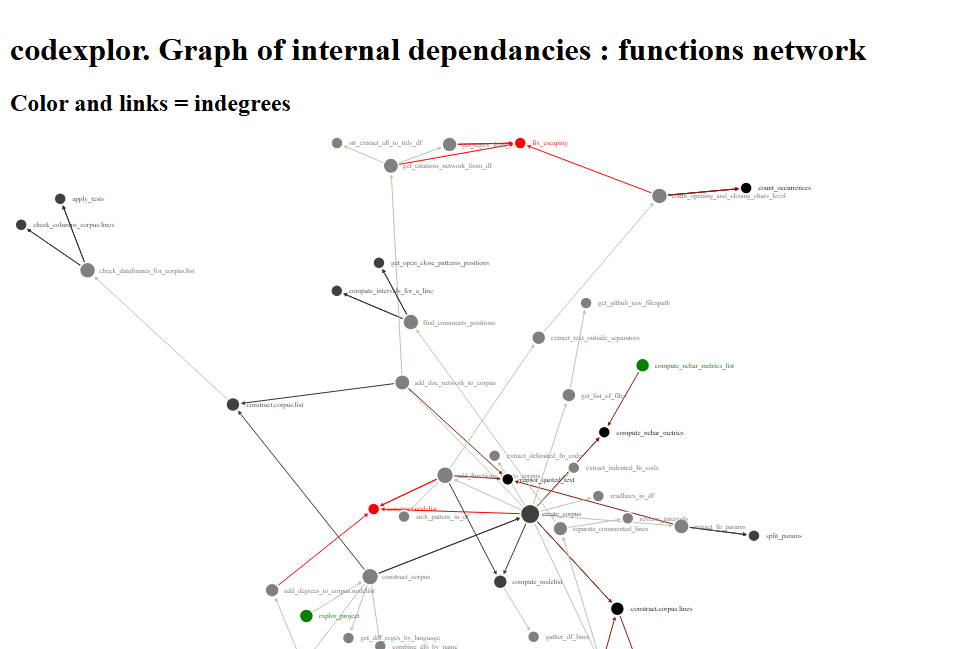
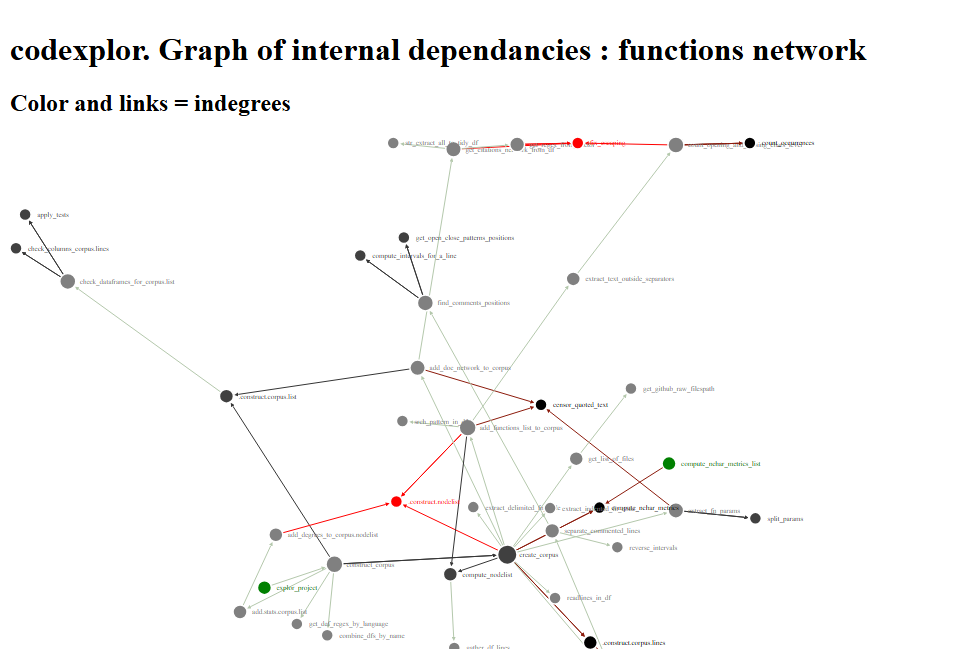
fix filter of fn

diff --git a/man/figures/network_codexplor_fn.html b/man/figures/network_codexplor_fn.html
@@ -1231,11 +1231,11 @@ return function(){for(var n=0,e=0;e<t;++e)n+=Math.random();return n}},um=functio
 <div id="htmlwidget_container">
   <h1>codexplor. Graph of internal dependancies : functions network</h1>
   <h2>Color and links = indegrees</h2>
-  <div class="forceNetwork html-widget html-fill-item" id="htmlwidget-1b7d24e1c1f14304c824" style="width:960px;height:500px;"></div>
+  <div class="forceNetwork html-widget html-fill-item" id="htmlwidget-14e8b6230c7ce6ca3b75" style="width:960px;height:500px;"></div>
   <div style="position:floating; top:10px; left:10px; background:white; padding:10px; border:0px;">
   <strong>Colors (indegree)</strong><br></div>
 </div>
-<script type="application/json" data-for="htmlwidget-1b7d24e1c1f14304c824">{"x":{"links":{"source":[1,0,0,2,3,5,4,4,0,3,6,0,0,7,7,4,8,2,7,7,9,0,3,10,10,0,11,0,0,4,12,13,13,13,14,3,3,0,0,0,4,15,1,1,16,17,13,18,18,19,2,3,20,21,0,10,10,17,0,1,16,1,8,8,4,17],"target":[15,15,15,9,9,22,22,22,22,6,5,2,4,23,23,24,24,24,25,25,7,1,26,27,27,28,28,28,19,19,3,29,29,29,13,0,0,30,8,31,14,32,32,32,10,33,33,33,33,34,17,35,36,37,20,38,38,18,39,40,41,16,42,42,43,44],"colour":["#8C1B0C","#8C1B0C","#8C1B0C","#353535","#353535","#FF0000","#FF0000","#FF0000","#FF0000","#B4C8AC","#B4C8AC","#B4C8AC","#B4C8AC","#353535","#353535","#8C1B0C","#8C1B0C","#8C1B0C","#353535","#353535","#B4C8AC","#B4C8AC","#B4C8AC","#353535","#353535","#8C1B0C","#8C1B0C","#8C1B0C","#353535","#353535","#B4C8AC","#8C1B0C","#8C1B0C","#8C1B0C","#B4C8AC","#353535","#353535","#B4C8AC","#B4C8AC","#B4C8AC","#B4C8AC","#8C1B0C","#8C1B0C","#8C1B0C","#B4C8AC","#FF0000","#FF0000","#FF0000","#FF0000","#B4C8AC","#B4C8AC","#B4C8AC","#B4C8AC","#B4C8AC","#B4C8AC","#353535","#353535","#B4C8AC","#B4C8AC","#B4C8AC","#B4C8AC","#B4C8AC","#353535","#353535","#B4C8AC","#B4C8AC"]},"nodes":{"name":["create_corpus","clean_comments_from_lines","add_doc_network_to_corpus","construct_corpus","add_functions_list_to_corpus","add_degrees_to_corpus.nodelist","add.stats.corpus.list","check_dataframes_for_corpus.list","extract_fn_params",".construct.corpus.list","find_comments_positions","compute_nchar_metrics_list","explor_project","count_opening_and_closing_chars_level","extract_text_outside_separators",".construct.corpus.lines","separate_commented_lines","get_citations_network_from_df","get_regex_from_vector","compute_nodelist","get_list_of_files","get_networkd3_from_igraph",".construct.nodelist","apply_tests","censor_quoted_text","check_columns_corpus.lines","combine_dfs_by_name","compute_intervals_for_a_line","compute_nchar_metrics","count_occurrences","extract_delimited_fn_code","extract_indented_fn_code","filter_if_na","fix_escaping","gather_df_lines","get_def_regex_by_language","get_github_raw_filespath","get_igraph_from_df","get_open_close_patterns_positions","readlines_in_df","remove_text_after_char","reverse_intervals","split_params","srch_pattern_in_df","str_extract_all_to_tidy_df"],"group":[2,1,1,1,1,1,1,1,1,2,1,0,0,1,1,3,1,1,1,2,1,0,4,2,3,2,1,2,3,3,1,1,3,4,1,1,1,1,2,1,1,1,2,1,1],"nodesize":[14,5,3,6,6,1,1,4,3,1,4,1,1,4,1,1,2,3,2,1,1,1,0,0,0,0,0,0,0,0,0,0,0,0,0,0,0,0,0,0,0,0,0,0,0]},"options":{"NodeID":"name","Group":"indegree","colourScale":"d3.scaleLinear().domain([0, 1, 3, 4]).range([\"green\", \"grey\", \"black\", \"red\"]).clamp(true);","fontSize":7,"fontFamily":"serif","clickTextSize":17.5,"linkDistance":50,"linkWidth":"function(d) { return 1; }","charge":-200,"opacity":1,"zoom":true,"legend":false,"arrows":true,"nodesize":true,"radiusCalculation":" Math.sqrt(d.nodesize)+6","bounded":true,"opacityNoHover":0.9,"clickAction":null}},"evals":[],"jsHooks":[]}</script>
-<script type="application/htmlwidget-sizing" data-for="htmlwidget-1b7d24e1c1f14304c824">{"viewer":{"width":450,"height":350,"padding":10,"fill":true},"browser":{"width":960,"height":500,"padding":10,"fill":true}}</script>
+<script type="application/json" data-for="htmlwidget-14e8b6230c7ce6ca3b75">{"x":{"links":{"source":[1,0,0,2,3,5,4,4,0,3,6,0,0,7,7,4,8,2,7,7,9,0,3,10,10,0,11,0,0,4,12,13,13,13,14,3,3,0,0,0,4,15,1,1,16,17,13,18,18,19,2,3,20,21,0,10,10,17,0,1,16,1,8,8,4,17],"target":[15,15,15,9,9,22,22,22,22,6,5,2,4,23,23,24,24,24,25,25,7,1,26,27,27,28,28,28,19,19,3,29,29,29,13,0,0,30,8,31,14,32,32,32,10,33,33,33,33,34,17,35,36,37,20,38,38,18,39,40,41,16,42,42,43,44],"colour":["#8C1B0C","#8C1B0C","#8C1B0C","#353535","#353535","#FF0000","#FF0000","#FF0000","#FF0000","#B4C8AC","#B4C8AC","#B4C8AC","#B4C8AC","#353535","#353535","#8C1B0C","#8C1B0C","#8C1B0C","#353535","#353535","#B4C8AC","#B4C8AC","#B4C8AC","#353535","#353535","#8C1B0C","#8C1B0C","#8C1B0C","#353535","#353535","#B4C8AC","#8C1B0C","#8C1B0C","#8C1B0C","#B4C8AC","#353535","#353535","#B4C8AC","#B4C8AC","#B4C8AC","#B4C8AC","#8C1B0C","#8C1B0C","#8C1B0C","#B4C8AC","#FF0000","#FF0000","#FF0000","#FF0000","#B4C8AC","#B4C8AC","#B4C8AC","#B4C8AC","#B4C8AC","#B4C8AC","#353535","#353535","#B4C8AC","#B4C8AC","#B4C8AC","#B4C8AC","#B4C8AC","#353535","#353535","#B4C8AC","#B4C8AC"]},"nodes":{"name":["create_corpus","clean_comments_from_lines","add_doc_network_to_corpus","construct_corpus","add_functions_list_to_corpus","add_degrees_to_corpus.nodelist","add.stats.corpus.list","check_dataframes_for_corpus.list","extract_fn_params",".construct.corpus.list","find_comments_positions","compute_nchar_metrics_list","explor_project","count_opening_and_closing_chars_level","extract_text_outside_separators",".construct.corpus.lines","separate_commented_lines","get_citations_network_from_df","get_regex_from_vector","compute_nodelist","get_list_of_files","get_networkd3_from_igraph",".construct.nodelist","apply_tests","censor_quoted_text","check_columns_corpus.lines","combine_dfs_by_name","compute_intervals_for_a_line","compute_nchar_metrics","count_occurrences","extract_delimited_fn_code","extract_indented_fn_code","filter_if_na","fix_escaping","gather_df_lines","get_def_regex_by_language","get_github_raw_filespath","get_igraph_from_df","get_open_close_patterns_positions","readlines_in_df","remove_text_after_char","reverse_intervals","split_params","srch_pattern_in_df","str_extract_all_to_tidy_df"],"group":[2,1,1,1,1,1,1,1,1,2,1,0,0,1,1,3,1,1,1,2,1,0,4,2,3,2,1,2,3,3,1,1,3,4,1,1,1,1,2,1,1,1,2,1,1],"nodesize":[14,5,3,6,6,1,1,4,3,1,4,1,1,4,1,1,2,3,2,1,1,1,0,0,0,0,0,0,0,0,0,0,0,0,0,0,0,0,0,0,0,0,0,0,0]},"options":{"NodeID":"name","Group":"indegree","colourScale":"d3.scaleLinear().domain([0, 1, 3, 4]).range([\"green\", \"grey\", \"black\", \"red\"]).clamp(true);","fontSize":7,"fontFamily":"serif","clickTextSize":17.5,"linkDistance":50,"linkWidth":"function(d) { return 1; }","charge":-200,"opacity":1,"zoom":true,"legend":false,"arrows":true,"nodesize":true,"radiusCalculation":" Math.sqrt(d.nodesize)+6","bounded":true,"opacityNoHover":0.9,"clickAction":null}},"evals":[],"jsHooks":[]}</script>
+<script type="application/htmlwidget-sizing" data-for="htmlwidget-14e8b6230c7ce6ca3b75">{"viewer":{"width":450,"height":350,"padding":10,"fill":true},"browser":{"width":960,"height":500,"padding":10,"fill":true}}</script>
 </body>
 </html>

diff --git a/README.md b/README.md
@@ -125,7 +125,7 @@ several standardized metrics and answer a `corpus.list` of dataframes :
 |:---|:---|
 | ![.](https://img.shields.io/badge/✔-bold?style=flat&logoColor=black&logoSize=2&label=Network%20of%20internal%20dependencies&labelColor=black&color=green) | Appreciate **global** complexity and reveal critical files, e.g., major internal dependancies, clusters of ‘difficult-to-read’ files |
 | ![.](https://img.shields.io/badge/%7B🚧%7D-bold?style=flat&logoColor=black&logoSize=2&label=Document-level%20metrics&labelColor=grey&color=yellow) | Assess each **file**, e.g., length and files readability, number of functions within a file |
-| ![.](https://img.shields.io/badge/%7B🚧%7D-bold?style=flat&logoColor=black&logoSize=2&label=Function-level%20metrics&labelColor=grey&color=orange) | Assess each **function**, e.g., number of parameters or number of internal dependencies |
+| ![.](https://img.shields.io/badge/%7B🚧%7D-bold?style=flat&logoColor=black&logoSize=2&label=Function-level%20metrics&labelColor=grey&color=yellow) | Assess each **function**, e.g., number of parameters or number of internal dependencies |
 | ![.](https://img.shields.io/badge/%7B🚧%7D-bold?style=flat&logoColor=black&logoSize=2&label=Line-level%20metrics&labelColor=grey&color=green) | Assess each **line**, e.g., find the longest |
 
 <!-- FEATURES are on 3 flex-columns : -->
